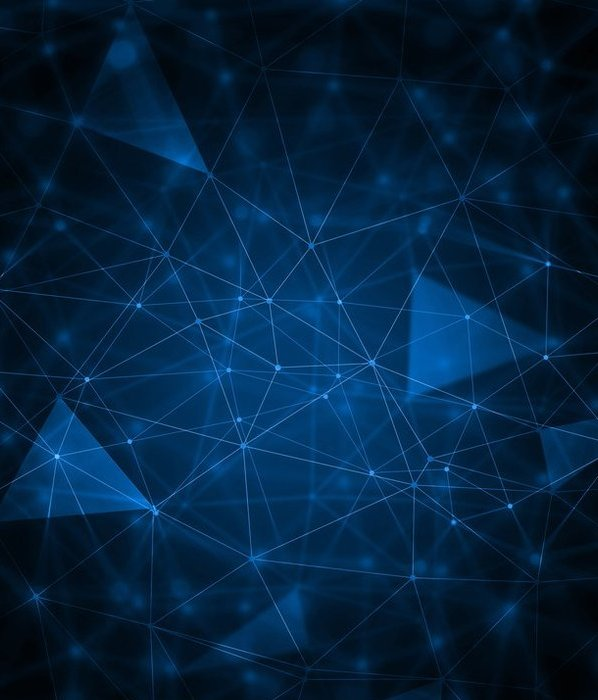
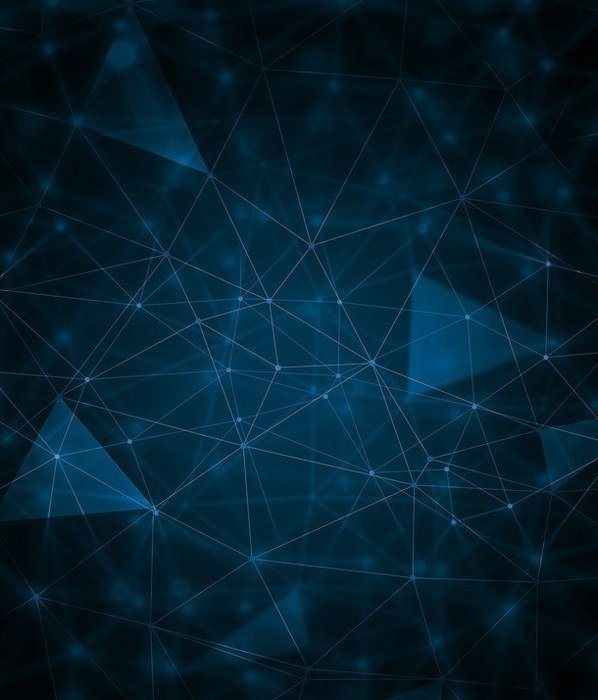
Some modification

diff --git a/index.html b/index.html
@@ -47,29 +47,29 @@
     <!--====================    CONATAINER ====================-->
     <main>
 
-        <section class="Slider">
-            <div class="carousel slide" data-ride="carousel" id="CarouselContente">
+        <section style="background-color: rgba(0, 0, 0, 0.8);">
+            <div id="carouselExampleIndicators" class="carousel slide" data-ride="carousel">
                 <ol class="carousel-indicators">
-                    <li data-target="#CarouselContente" data-slide-to="0"></li>
-                    <li data-target="#CarouselContente" data-slide-to="1"></li>
-                    <li data-target="#CarouselContente" data-slide-to="2"></li>
+                    <li data-target="#carouselExampleIndicators" data-slide-to="0" class="active"></li>
+                    <li data-target="#carouselExampleIndicators" data-slide-to="1"></li>
+                    <li data-target="#carouselExampleIndicators" data-slide-to="2"></li>
                 </ol>
                 <div class="carousel-inner">
                     <div class="carousel-item active">
-                        <img src="images/pic1.jpg" alt="" width="100px" class="d-block w-100 img-fluid">
+                        <img class="d-block w-100" src="images/image1.png" alt="First slide" width="10px">
                     </div>
                     <div class="carousel-item">
-                        <img src="images/pic2.jpg" alt="" width="100px" class="d-block w-100 img-fluid">
+                        <img class="d-block w-100" src="images/image2.png" alt="Second slide">
                     </div>
                     <div class="carousel-item">
-                        <img src="images/pic3.jpg" alt="" width="100px" class="d-block w-100 img-fluid">
+                        <img class="d-block w-100" src="images/image3.png" alt="Third slide">
                     </div>
                 </div>
-                <a href="#CarouselContente" class="carousel-control-prev" role="button" data-slide="prev">
+                <a class="carousel-control-prev" href="#carouselExampleIndicators" role="button" data-slide="prev">
                     <span class="carousel-control-prev-icon" aria-hidden="true"></span>
                     <span class="sr-only">Previous</span>
                 </a>
-                <a href="#CarouselContente" class="carousel-control-next" role="button" data-slide="next">
+                <a class="carousel-control-next" href="#carouselExampleIndicators" role="button" data-slide="next">
                     <span class="carousel-control-next-icon" aria-hidden="true"></span>
                     <span class="sr-only">Next</span>
                 </a>
@@ -147,8 +147,11 @@
                                 </button>
                             </div>
                             <div class="modal-body">
-                                <div class="embed-responsive embed-responsive-4by3">
-                                    <iframe class="embed-responsive-item" src=""></iframe>
+                                <div class="embed-responsive embed-responsive-16by9">
+                                    <iframe class="embed-responsive-item" width="1072" height="536"
+                                        src="https://www.youtube.com/embed/RP5d1n-XLbc" frameborder="0"
+                                        allow="accelerometer; autoplay; encrypted-media; gyroscope; picture-in-picture"
+                                        allowfullscreen></iframe>
                                 </div>
                             </div>
                         </div>

diff --git a/src/contact.html b/src/contact.html
@@ -135,25 +135,25 @@
                 <h2 class="font-weight-bold">Notre Equipe</h2>
                 <div class="row justify-content-around mt-4">
                     <div>
-                        <img src="../images/pers1.jpg" alt="" class="img-fluid rounded-circle" width="200px"
+                        <img src="../images/use1.jpg" alt="" class="img-fluid rounded-circle" width="200px"
                             height="200px">
                         <h4 class="font-weight-bold mt-2">Rachida Zakoue</h4>
                         <p>Marketing Manager</p>
                     </div>
                     <div>
-                        <img src="../images/pers1.jpg" alt="" class="img-fluid rounded-circle" width="200px"
+                        <img src="../images/user2.jpg" alt="" class="img-fluid rounded-circle" width="200px"
                             height="200px">
                         <h4 class="font-weight-bold mt-2">Mamane Sani</h4>
                         <p>Business Manager</p>
                     </div>
                     <div>
-                        <img src="../images/pers1.jpg" alt="" class="img-fluid rounded-circle" width="200px"
+                        <img src="../images/uers3.jpg" alt="" class="img-fluid rounded-circle" width="200px"
                             height="200px">
                         <h4 class="font-weight-bold mt-2">Yasmine Albani</h4>
                         <p>CEO</p>
                     </div>
                     <div>
-                        <img src="../images/pers1.jpg" alt="" class="img-fluid rounded-circle" width="200px"
+                        <img src="../images/user4.jpg" alt="" class="img-fluid rounded-circle" width="200px"
                             height="200px">
                         <h4 class="font-weight-bold mt-2">Charif Ahmed</h4>
                         <p>Web Developper</p>

diff --git a/src/about.html b/src/about.html
@@ -66,7 +66,7 @@
                             dignissimos blanditiis consequatur reiciendis itaque fugit mollitia voluptatum modi</p>
                     </div>
                     <div class="col-lg-6 col-md-12 col-sm-12">
-                        <img src="../images/5570.jpg" alt="" width="300px" height="300px" class="rounded-circle">
+                        <img src="../images/aboutimg.jpg" alt="" width="300px" height="300px" class="rounded-circle">
                     </div>
                 </div>
 

diff --git a/src/services.html b/src/services.html
@@ -252,10 +252,10 @@
 
 
     <!---===========   Jquery file JS  =========-->
-    <script src="..js/jquery.3.4.1.js"></script>
+    <script src="../js/jquery.3.4.1.js"></script>
 
     <!--===========   Bootstrap file JS ===========-->
-    <script src="..js/bootstrap.min.js"></script>
+    <script src="../js/bootstrap.min.js"></script>
 
 
 </body>

diff --git a/css/style.css b/css/style.css
@@ -3,6 +3,10 @@ html, body {
     background-image: url('../images/5570.jpg');
     background-attachment: fixed ;
 }
+.carousel-item {
+    height: 500px;
+    background-color: rgb(21, 27, 27);
+}
 .SpotToggle i {
     font-size: 2rem;
     color: #fff;
